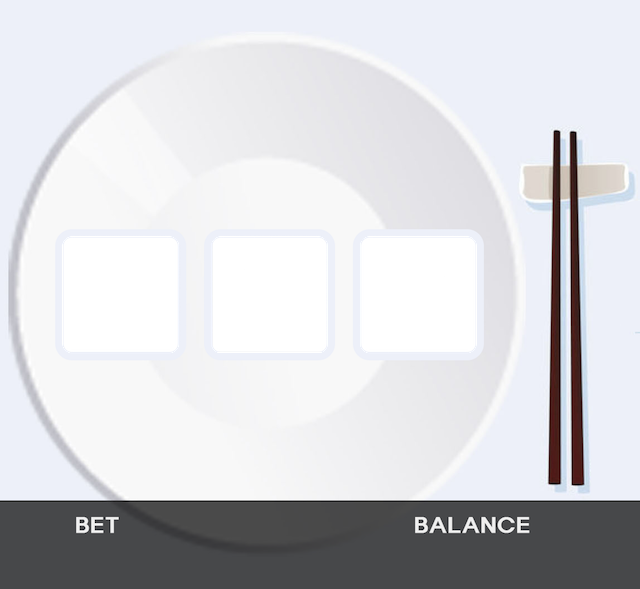
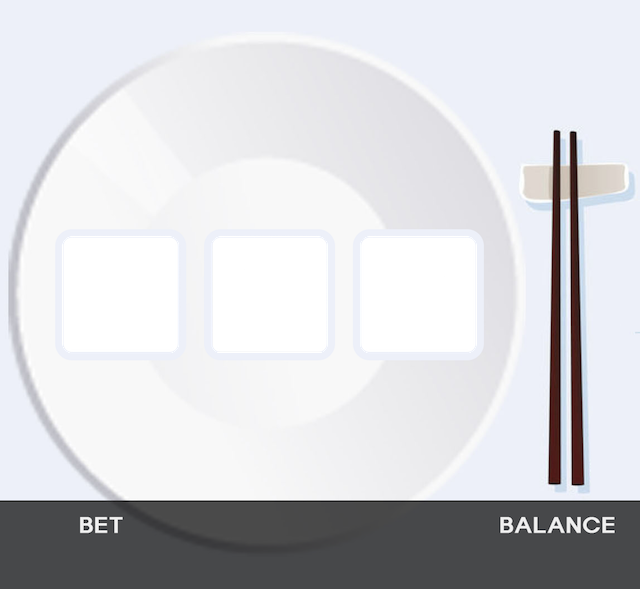
Modified images position

Changed region(s): [[0.625, 0.8557, 0.9688, 0.9168], [0.0938, 0.8557, 0.1875, 0.9168]]

diff --git a/js/init.js b/js/init.js
@@ -17,11 +17,12 @@ var totalBalanceMoney;
 var list;
 var checked = 0;
 
-let totalBetMoney = new PIXI.Text(1000, {fontFamily: 'Arial-Bold', fontSize: 36, fill: 0xfffffff, align: 'center'});
-let betMoney = new PIXI.Text(10, {fontFamily: 'Arial-Bold', fontSize: 36, fill: 0xfffffff, align: 'left'});
-totalBetMoney.x = 300;
-betMoney.x = 300;
-betMoney.y = 50;
+let totalBetMoney = new PIXI.Text(1000, {fontFamily: 'Arial-Bold', fontSize: 36, fill: 0xFFFFFF, align: 'center'});
+let betMoney = new PIXI.Text(10, {fontFamily: 'Arial-Bold', fontSize: 36, fill: 0xFFFFFF, align: 'left'});
+totalBetMoney.x = 530;
+totalBetMoney.y = 545;
+betMoney.x = 70;
+betMoney.y = 545;
 
 var sound = new Howl({
     src: ['sound/bgm_main_rockstar.mp3'],
@@ -311,7 +312,7 @@ function setup() {
 	playBtn = new Button(textures_play);
 	front.addChild(playBtn);
 	playBtn.position.x = 270;
-	playBtn.position.y = 480;
+	playBtn.position.y = 460;
 	playBtn.click = playBtn.touchstart = play;
 	// console.log("play btn clicked!");
 
@@ -395,7 +396,7 @@ function addOneHero () {
     var a;
     a = parseInt(betMoney.text);
     console.log(typeof(a));
-    betMoney.text = a+ 10;
+    betMoney.text = a + 10;
 	// heroBetCounterNumber.text++;
 	// totalBets.text++;
 	// console.log(totalBets.text);
